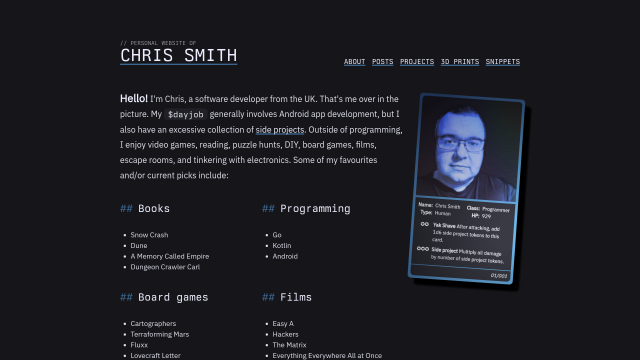
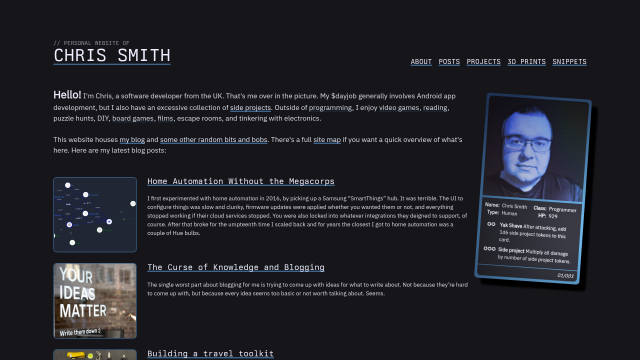
About page fiddling

Changed region(s): [[0.0625, 0.2444, 0.9375, 1.0], [0.0625, 0.0917, 0.375, 0.1833], [0.5312, 0.1528, 0.9375, 0.1833]]

diff --git a/static/_about.scss b/static/_about.scss
@@ -43,6 +43,7 @@
 .tcg-outer {
   float: right;
   position: relative;
+  width: min-content;
 
   transform: rotate(4deg) translateY(40px);
   margin-left: var(--medium-space);
@@ -51,6 +52,8 @@
   @media (max-width: 1200px) {
     float: none;
     margin-bottom: var(--large-space);
+    margin-left: auto;
+    margin-right: auto;
   }
 
   @media (max-width: 800px) {
@@ -58,7 +61,6 @@
   }
 
   @media (max-width: 500px) {
-    margin-left: 0;
     margin-bottom: 0;
   }
 
@@ -216,6 +218,140 @@
       font-style: italic;
       display: flex;
       justify-content: right;
+    }
+  }
+}
+
+.expandy {
+  position: relative;
+  display: inline-block;
+  margin-right: -4px;
+
+  span {
+    text-decoration: underline;
+    text-decoration-skip-ink: none;
+    text-decoration-color: var(--accent-colour);
+    text-decoration-thickness: 1px;
+    text-decoration-style: wavy;
+    cursor: help;
+  }
+
+  .popup {
+    position: absolute;
+    display: none;
+    top: calc(2em);
+    left: calc(100% + 25px);
+    z-index: 100;
+    transition: display 300s;
+    transition-property: allow-discrete;
+
+    div {
+      transition: opacity 100ms;
+      background-color: var(--accent-colour);
+      padding: var(--medium-space);
+      min-width: 400px;
+      border-radius: 20px;
+
+      ul {
+        margin-top: var(--medium-space);
+      }
+    }
+
+    &::before, &::after {
+      content: '';
+      display: block;
+      position: absolute;
+      border-radius: 100%;
+      background-color: var(--accent-colour);
+    }
+
+    &::before {
+      width: 15px;
+      height: 15px;
+      top: -20px;
+      left: -30px;
+      transition: opacity 100ms 200ms;
+    }
+
+    &::after {
+      width: 20px;
+      height: 20px;
+      top: -10px;
+      left: -15px;
+      transition: opacity 100ms 100ms;
+    }
+  }
+
+  &:has(span:hover), &:has(span:focus) {
+    .popup {
+      display: block;
+
+      div { transition: opacity 100ms 300ms; }
+      &::before { transition: opacity 100ms; }
+      &::after { transition: opacity 100ms 150ms; }
+    }
+  }
+}
+
+@starting-style {
+  .expandy .popup {
+    &::before, &::after, div {
+      opacity: 0;
+    }
+  }
+}
+
+.recent-posts {
+  padding-top: var(--medium-space);
+  display: grid;
+  grid-auto-rows: 1fr;
+  gap: var(--medium-space);
+
+  article {
+    display: grid;
+    grid-template-areas:
+            "img . header"
+            "img . summary";
+    grid-template-columns: 250px var(--medium-space) 1fr;
+    grid-template-rows: auto 1fr;
+
+    @media (max-width: 500px) {
+      grid-template-columns: 100px var(--small-space) 1fr;
+    }
+
+    a {
+      grid-area: img;
+
+      &:has(img):hover {
+        background: none;
+        img {
+          border-radius: 0;
+        }
+      }
+
+      img {
+        width: 100%;
+        height: 100%;
+        object-fit: cover;
+        border-radius: var(--border-radius);
+        transition: border-radius 200ms ease-in-out;
+        border: 2px solid var(--accent-colour);
+      }
+    }
+
+    h2 {
+      margin: 0;
+      grid-area: header;
+      font-size: var(--font-size-large);
+
+      &::before {
+        display: none;
+      }
+    }
+
+    p {
+      grid-area: summary;
+      font-size: var(--font-size-small);
     }
   }
 }

diff --git a/content/posts/2025-05-21-home-automation-without-megacorps/index.md b/content/posts/2025-05-21-home-automation-without-megacorps/index.md
@@ -16,7 +16,7 @@ opengraph:
   title: "Home Automation Without the Megacorps · Chameth.com"
   type: article
   url: /home-automation-without-megacorps/
-  image: /home-automation-without-megacorps/zigbee-map.jpg
+  image: /home-automation-without-megacorps/zigbee-map.png
 ---
 
 I first experimented with home automation in 2016, by picking up a Samsung
